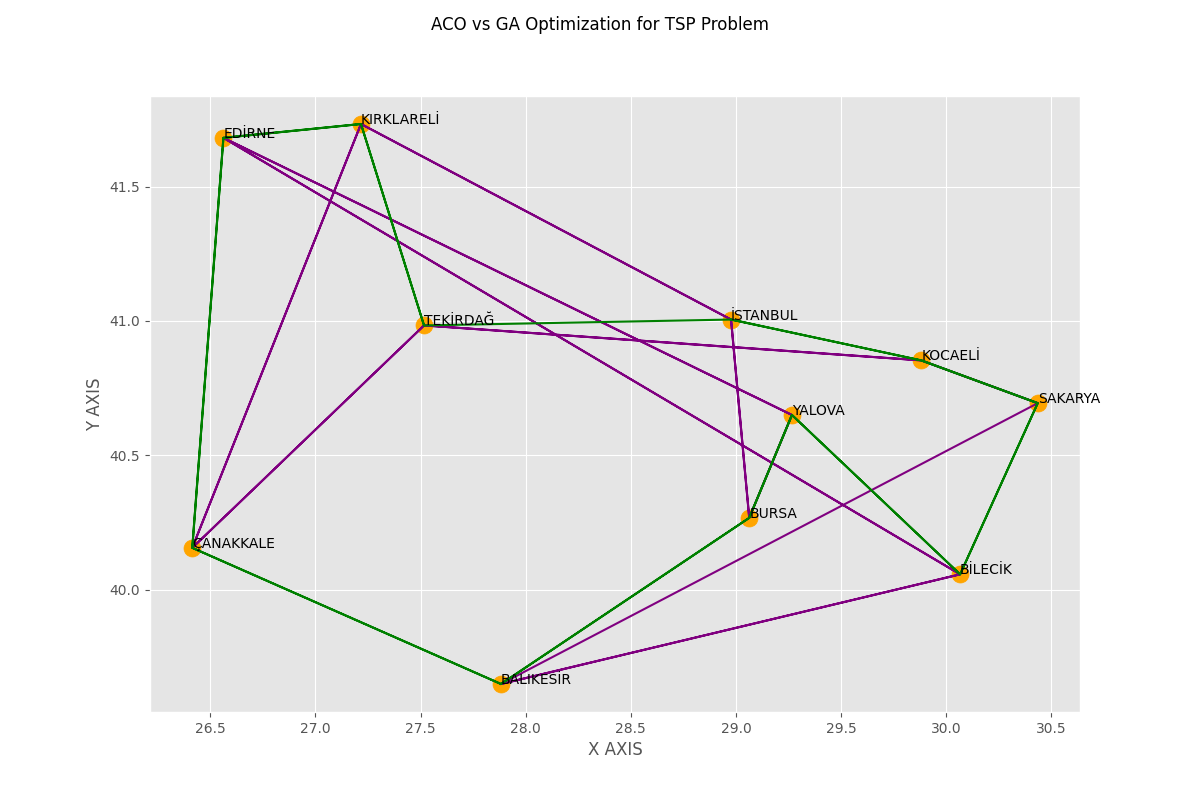
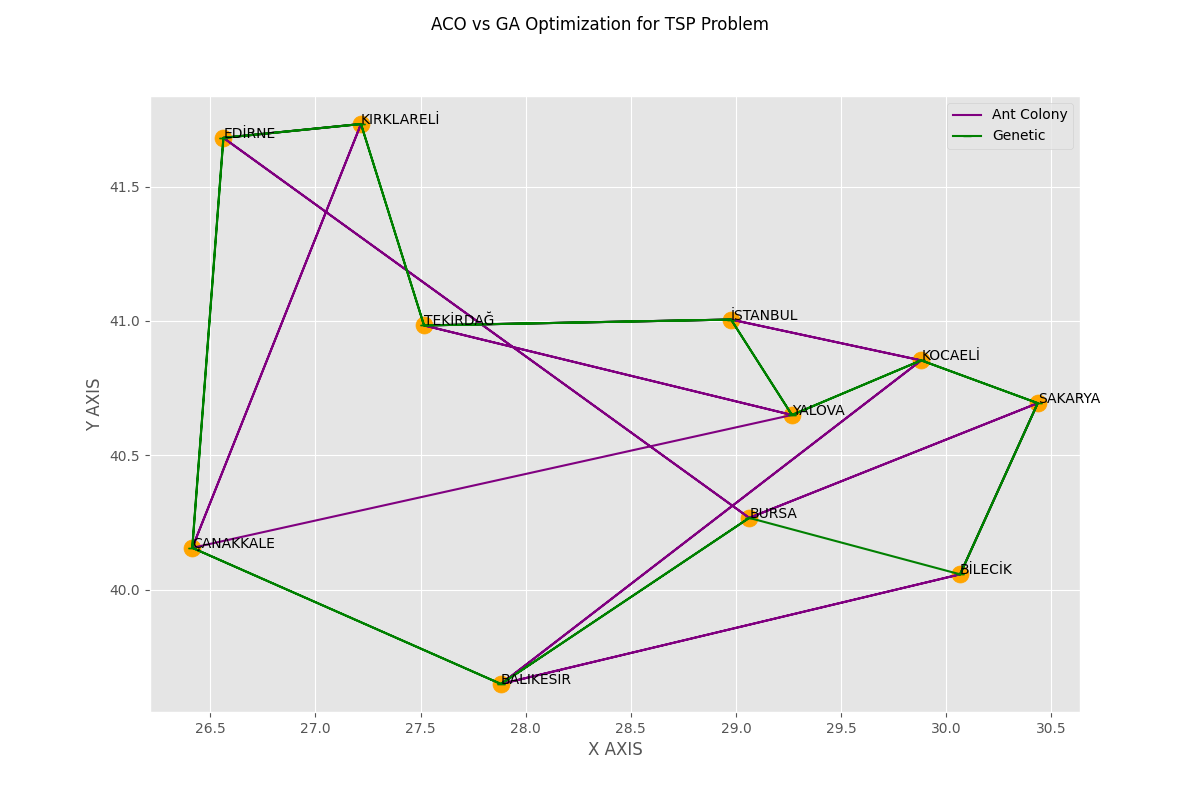
add bos isler

diff --git a/project-flask/templates/tsp.html b/project-flask/templates/tsp.html
@@ -87,55 +87,60 @@
 
 <div class="col-md-12">
 
+    <div class="col-sm-6 offset-md-3">
+        <div class="alert alert-success in text-center"> <a href="#" class="close" data-dismiss="alert">&times;</a>
+            <strong>Sonuçları Görüntüleyebilirsiniz ! </strong>
+        </div>
+        <br>
+    </div>
+
     {% if onayli == True %}
-    <button class="btn btn-primary" onclick="toggle()" type="button">
-        Sonuçları Görselleştir
+    <div class="col-sm-6 offset-md-3">
+        <div class="col text-center">
+            <button class="btn btn-danger" onclick="toggle()" type="button">
+                Sonuçları Görselleştir
+            </button>
+        </div>
+    </div>
+
+    {% else %}
+    <hr />
+    <button class="btn btn-primary" type="button" disabled>
+        <span class="spinner-border spinner-border-sm" role="status" aria-hidden="true"></span>
+        Görselleştirme Hazırlanıyor
     </button>
     <div>
-        <div class="col-sm-6 offset-md-3">
-            <div class="alert alert-success in text-center"> <a href="#" class="close" data-dismiss="alert">&times;</a>
-                <strong>Sonuçları Görüntüleyebilirsiniz ! </strong>
-            </div>
-            <br>
-        </div>
+        {% endif %}
+        </label>
+        <div id="plot_area" style="display: none;">
 
-        {% else %}
-        <hr />
-        <button class="btn btn-primary" type="button" disabled>
-            <span class="spinner-border spinner-border-sm" role="status" aria-hidden="true"></span>
-            Görselleştirme Hazırlanıyor
-        </button>
-        <div>
-            {% endif %}
-            </label>
-            <div id="plot_area" style="display: none;">
+            <div class="card">
+                <img src="{{ route_compare_img }}" alt="User Image">
 
-                <div class="card">
-                    <img src="{{ route_compare_img }}" alt="User Image">
-
-                    <img src="{{ cost_compare_img }}" alt="User Image">
+                <img src="{{ cost_compare_img }}" alt="User Image">
 
 
-                    <div class="card-body">
-                    </div>
+                <div class="card-body">
                 </div>
             </div>
         </div>
+    </div>
+</div>
 
-        <script>
-            function toggle_display() {
-                el = document.querySelector('.content_section');
+<script>
+    function toggle_display() {
+        el = document.querySelector('.content_section');
 
-                if (el.style.visibility == 'hidden') {
-                    el.style.visibility = 'visible'
-                }
-            }
-            function toggle() {
-                toggle_form = document.getElementById('plot_area');
+        if (el.style.visibility == 'hidden') {
+            el.style.visibility = 'visible'
+        }
+    }
+    function toggle() {
+        toggle_form = document.getElementById('plot_area');
 
-                if (toggle_form.style.display == "none") {
-                    toggle_form.style.display = "block";
-                }
-            }
-        </script>
-        {% endblock %}
+        if (toggle_form.style.display == "none") {
+            toggle_form.style.display = "block";
+        }
+    }
+</script>
+{% endblock %}

diff --git a/project-flask/helpers/helper.py b/project-flask/helpers/helper.py
@@ -26,7 +26,6 @@ def compare_cost_values(aco_cost_values, ga_cost_values):
     plt.plot(aco_cost_values, c = "orange", label='Karınca')
     plt.plot(ga_cost_values,'-.',c = "#337ab7",label='Genetik')
     plt.legend(['Ant Colony', 'Genetic'])
-    plt.legend()
     #plt.show()
 
     return fig
@@ -53,9 +52,11 @@ def compare_route_graphic( x_axis, y_axis, cities, aco_best_route, ga_best_route
     
     # adding paths to plot
     # aco path plot
-    plt.plot(x_axis[aco_path], y_axis[aco_path], c = "purple")
+    plt.plot(x_axis[aco_path], y_axis[aco_path], c = "purple", label='Karınca')
     # ga path plot
-    plt.plot(x_axis[ga_path], y_axis[ga_path], c = "green")
+    plt.plot(x_axis[ga_path], y_axis[ga_path],"-_", c = "green", label='Genetik')
+
+    plt.legend(['Ant Colony', 'Genetic'])
 
     #plt.show()
 
@@ -69,7 +70,7 @@ def save_figures_to_upload(plot_fig, img_name):
 
     # pure img_name
     temp_img_name = img_name
-    
+
     base_path = 'static/uploads/'
     img_path = base_path + temp_img_name
 
